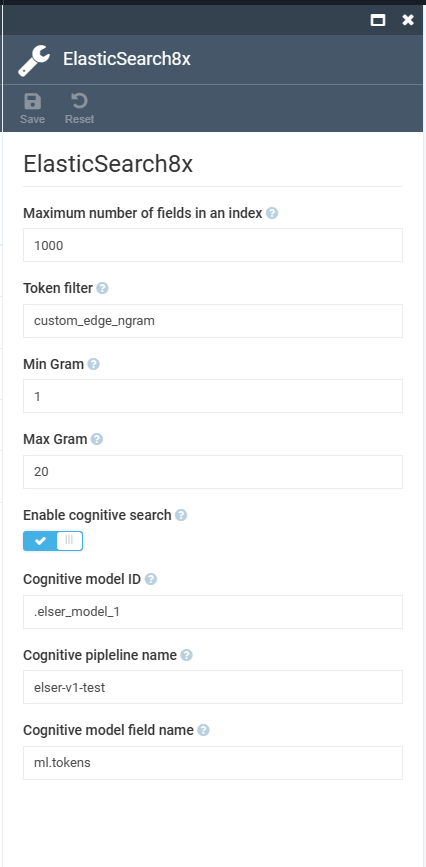
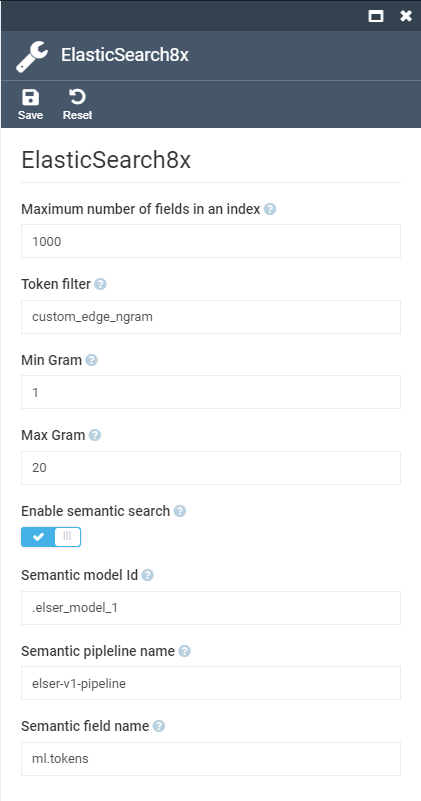
docs: some fixes

Changed region(s): [[0.0, 0.0, 1.0, 0.4682], [0.0309, 0.4994, 0.4941, 0.9675]]

diff --git a/README.md b/README.md
@@ -75,11 +75,11 @@ Elasticsearch provides semantic search capabilities using natural language proce
 ### NLP models
 Elasticsearch offers the usage of a wide range of NLP models, including both dense and sparse vector models. Your choice of the language model is critical for implementing semantic search successfully. 
 
-By defaul, we recommend using ELSER model. Elastic Learned Sparse EncodeR (ELSER) - is an NLP model trained by Elastic that enables you to perform semantic search by using sparse vector representation.  
+By default, we recommend using ELSER model. Elastic Learned Sparse EncodeR (ELSER) - is an NLP model trained by Elastic that enables you to perform semantic search by using sparse vector representation.  
 
 ### Prerequisites
 
-Elastic Cloud 8.9 or higher should be delpoyed and configured.
+Elastic Cloud 8.9 or higher should be deployed and configured.
 
 ### Enable Machine Learning Instances
 After creating a Elastic Cloud deployment, you'll need to enable Machine Learning capabilities:
@@ -135,8 +135,8 @@ PUT _ingest/pipeline/elser-v1-test
 
 ### Reindex and Query Data
 1. Navigate to Virto Commerce Settings - Search - ElasticSearch8x
-2. Enable Cognitive Search
-3. Check that settings are correct. Make sure that Cognitive model name, ML field name and pipeline name are the same as above.
+2. Enable Semantic Search
+3. Check that settings are correct. Make sure that semantic model ID, semantic field name and pipeline name are the same as above.
 4. Go to Search Index and rebuild them.
 5. After the indexation is finished, you can use Semantic Search.
 
